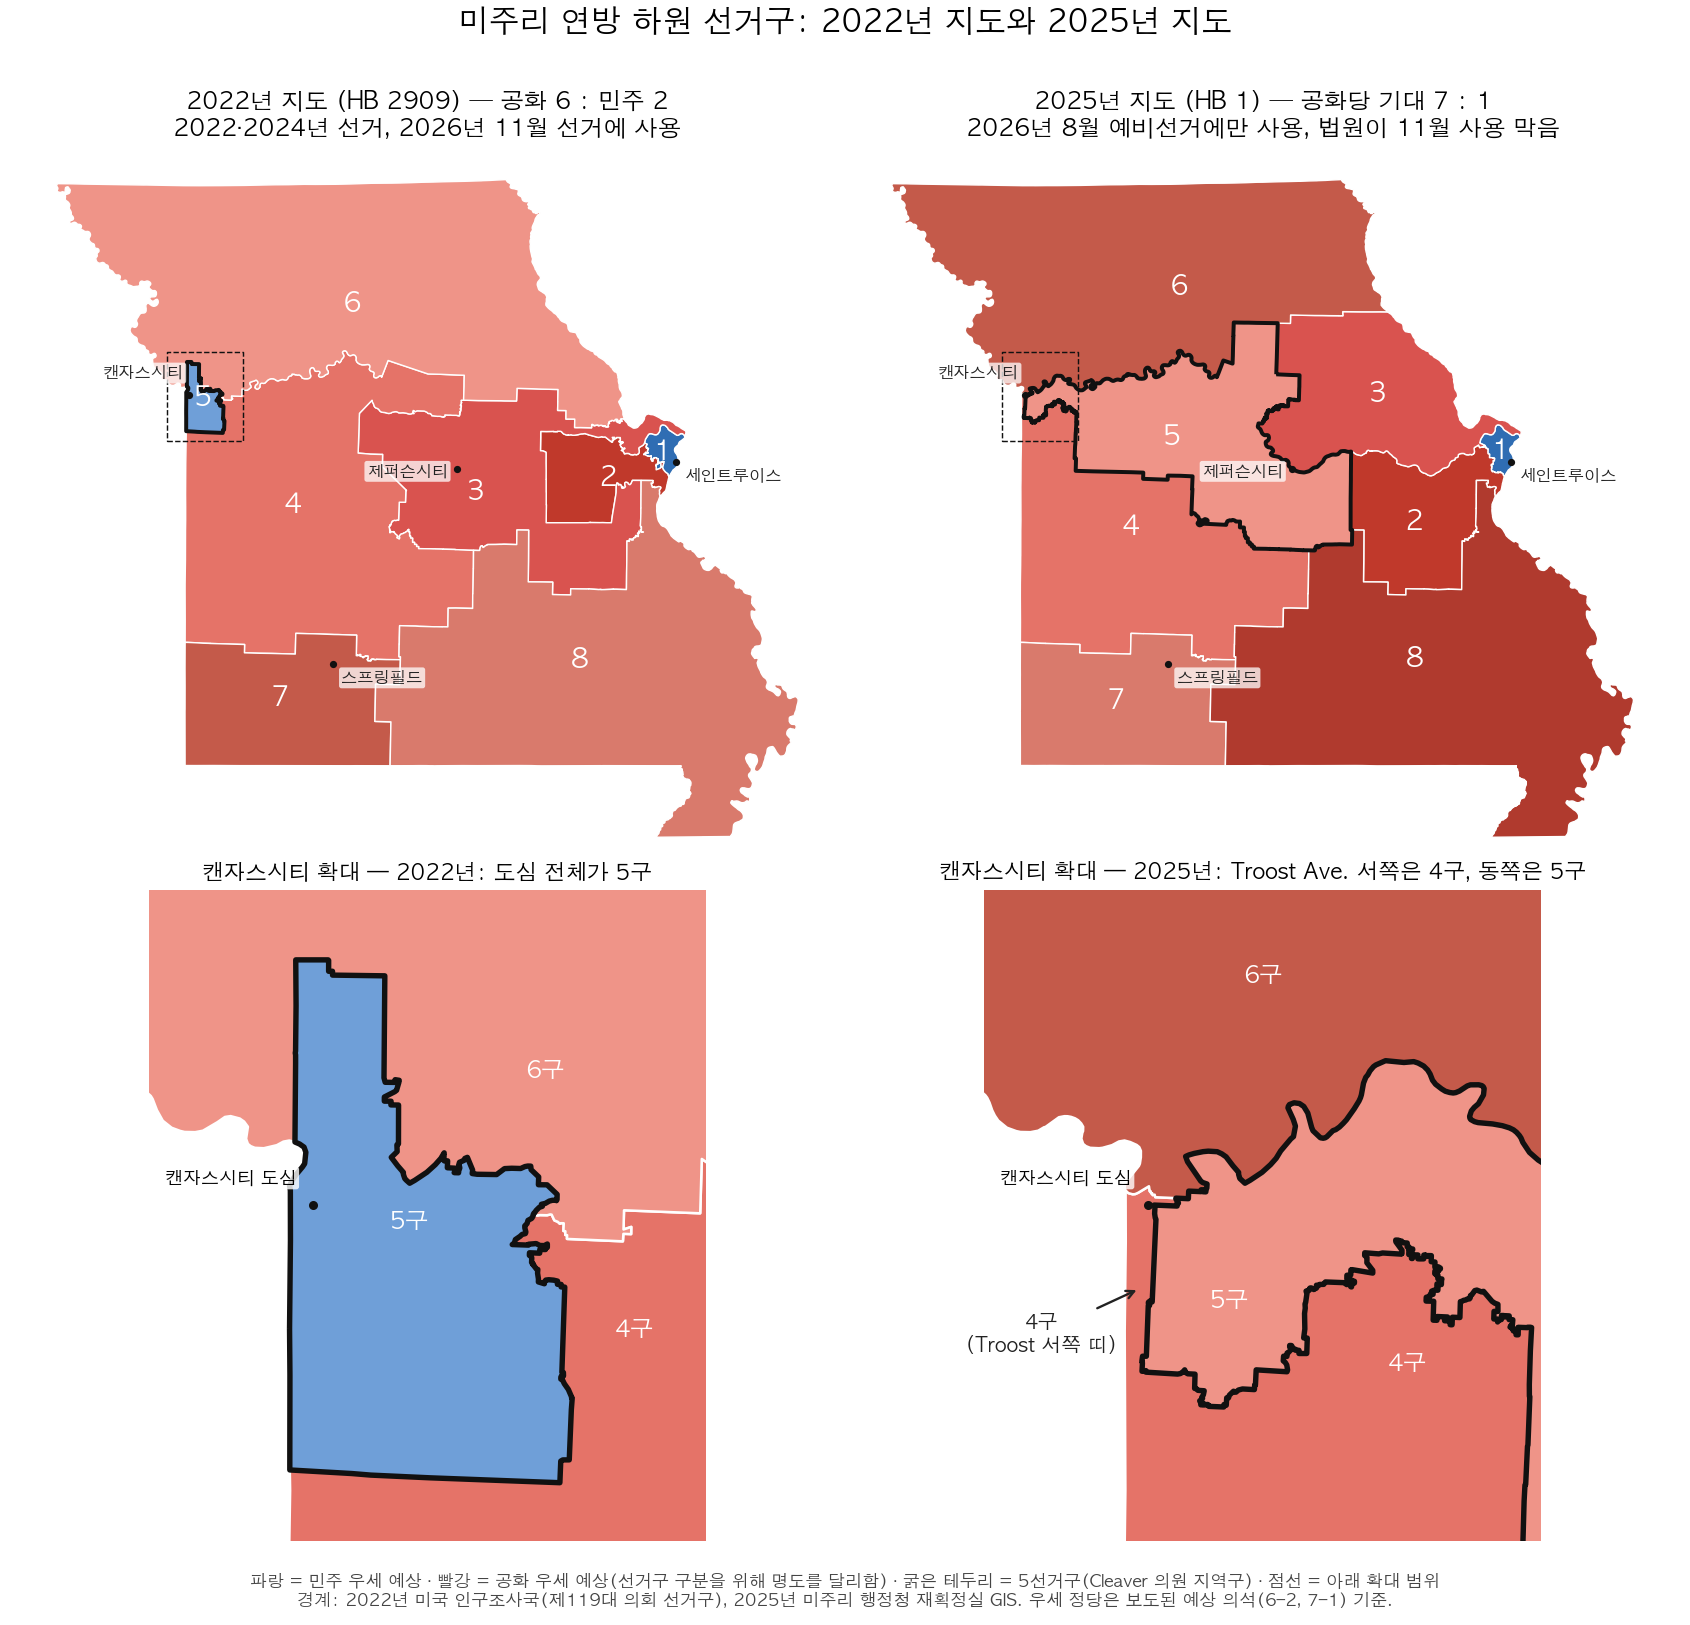
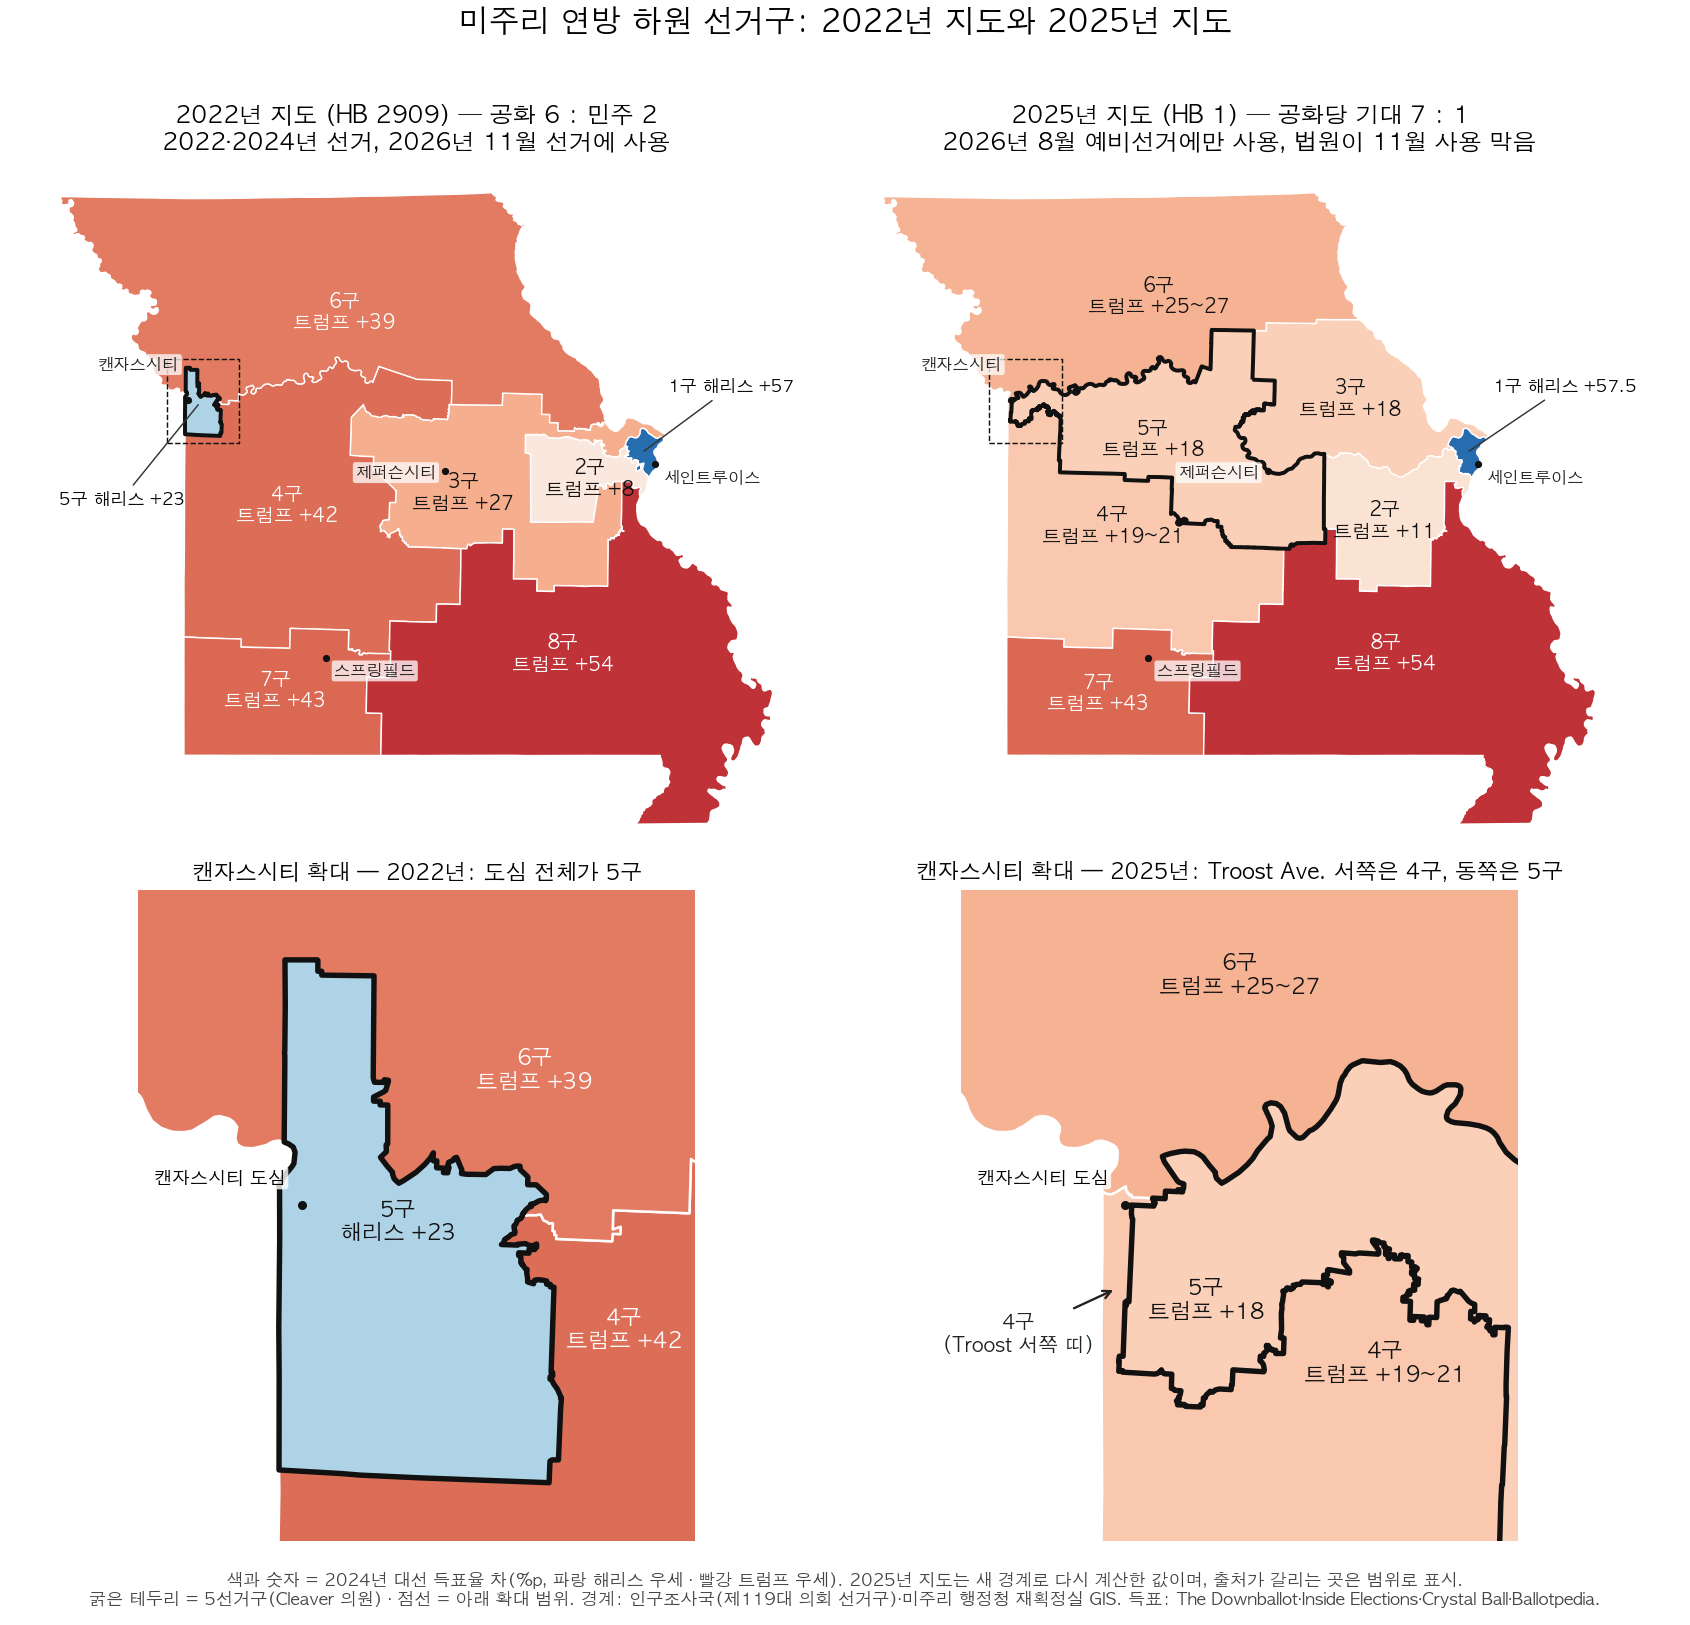
미주리 지도 그림: 2024 대선 득표차로 색·수치 표시 + 선거구별 비교표(현직·두 지도 득표차·11월 대진)

diff --git a/scripts/fig_missouri_maps.py b/scripts/fig_missouri_maps.py
@@ -16,23 +16,36 @@ plt.rcParams["font.family"] = "AppleGothic"
 plt.rcParams["axes.unicode_minus"] = False
 
 REPO = Path(__file__).resolve().parent.parent
-D_DISTRICTS = {"2022": {1, 5}, "2025": {1}}          # 예상 민주 우세 선거구
-BLUE = ["#2f6db3", "#6f9fd8"]
-REDS = ["#c0392b", "#d9534f", "#e57368", "#ef9488", "#c45a4a", "#d97a6c", "#b03a2e"]
+# 2024 대선 득표율 차(트럼프 − 해리스, %p). 2022년 지도 = 실제 결과, 2025년 지도 = 새 경계로 재집계.
+# 출처: The Downballot 선거구별 시트·Inside Elections·Crystal Ball·Ballotpedia(보관본). 출처가 갈리면 (하한, 상한).
+MARGIN = {
+    "2022": {1: -57, 2: 8, 3: 27, 4: 42, 5: -23, 6: 39, 7: 43, 8: 54},
+    "2025": {1: -57.5, 2: 11, 3: 18, 4: (19, 21), 5: 18, 6: (25, 27), 7: 43, 8: 54},
+}
+CMAP = matplotlib.colormaps["RdBu_r"]
 CITIES = {"캔자스시티": (-94.58, 39.10), "세인트루이스": (-90.20, 38.63), "제퍼슨시티": (-92.17, 38.58), "스프링필드": (-93.29, 37.21)}
-CITY_OFF = {"캔자스시티": (-0.05, 0.12, "right"), "세인트루이스": (0.08, -0.13, "left"), "제퍼슨시티": (-0.08, -0.05, "right"), "스프링필드": (0.08, -0.13, "left")}
+CITY_OFF = {"캔자스시티": (-0.08, 0.22, "right"), "세인트루이스": (0.08, -0.13, "left"), "제퍼슨시티": (-0.08, -0.05, "right"), "스프링필드": (0.08, -0.13, "left")}
 EXTRA_ZOOM_LABELS = {"2025": [(4, -94.59, 39.02)]}   # 2025년 4구는 Troost 서쪽의 폭 2km 띠(경도 -94.60~-94.58)와 남동쪽이 이어진 모양 → 서쪽 띠를 화살표로 표시
 KC_BOX = (-94.78, 38.78, -94.10, 39.40)              # 캔자스시티 확대 범위(경도·위도)
 
 
+def mid(v):
+    return sum(v) / 2 if isinstance(v, tuple) else v
+
+
 def colors(g, year):
-    out, bi, ri = [], 0, 0
-    for d in g.district:
-        if d in D_DISTRICTS[year]:
-            out.append(BLUE[bi % 2]); bi += 1
-        else:
-            out.append(REDS[ri % len(REDS)]); ri += 1
-    return out
+    # -60 ~ +60 을 색 척도 0.1 ~ 0.9 로(양 끝의 너무 짙은 색은 쓰지 않음)
+    return [CMAP(0.5 + max(-60, min(60, mid(MARGIN[year][d]))) / 150) for d in g.district]
+
+
+def mlabel(v):
+    if isinstance(v, tuple):
+        return f"트럼프 +{v[0]:g}~{v[1]:g}"
+    return f"트럼프 +{v:g}" if v > 0 else f"해리스 +{-v:g}"
+
+
+def tcolor(v):
+    return "white" if abs(mid(v)) >= 30 else "#111"
 
 
 def draw(ax, g, year, zoom=False):
@@ -46,7 +59,9 @@ def draw(ax, g, year, zoom=False):
             if r.geometry.is_empty or r.geometry.area < 0.004:
                 continue
             p = r.geometry.representative_point()
-            ax.text(p.x, p.y, f"{r.district}구", ha="center", va="center", fontsize=13, weight="bold", color="white")
+            v = MARGIN[year][r.district]
+            ax.text(p.x, p.y, f"{r.district}구\n{mlabel(v)}", ha="center", va="center", fontsize=12, weight="bold",
+                    color=tcolor(v), linespacing=1.15)
         for d, x, y in EXTRA_ZOOM_LABELS.get(year, []):
             ax.annotate(f"{d}구\n(Troost 서쪽 띠)", xy=(x, y), xytext=(x - 0.12, y - 0.06), fontsize=11, weight="bold",
                         ha="center", color="#222", arrowprops=dict(arrowstyle="->", color="#222", lw=1.3))
@@ -56,7 +71,17 @@ def draw(ax, g, year, zoom=False):
     else:
         for _, r in g.iterrows():
             p = r.geometry.representative_point()
-            ax.text(p.x, p.y, str(r.district), ha="center", va="center", fontsize=15, weight="bold", color="white")
+            v = MARGIN[year][r.district]
+            small = {1: (0.25, 0.45, "left")}            # 세인트루이스 1구는 좁아서 바깥에 표시
+            if year == "2022":
+                small[5] = (-0.15, -0.75, "right")      # 2022년 5구(캔자스시티)도 좁다
+            if r.district in small:
+                dx, dy, ha = small[r.district]
+                ax.annotate(f"{r.district}구 {mlabel(v)}", xy=(p.x, p.y), xytext=(p.x + dx, p.y + dy), fontsize=9.5, weight="bold",
+                            ha=ha, arrowprops=dict(arrowstyle="-", color="#333", lw=0.8))
+                continue
+            ax.text(p.x, p.y, f"{r.district}구\n{mlabel(v)}", ha="center", va="center", fontsize=10.5, weight="bold",
+                    color=tcolor(v), linespacing=1.15)
         for n, (x, y) in CITIES.items():
             dx, dy, ha = CITY_OFF[n]
             ax.plot(x, y, "o", color="#111", ms=3)
@@ -80,8 +105,8 @@ def main():
     axes[1, 1].set_title("캔자스시티 확대 — 2025년: Troost Ave. 서쪽은 4구, 동쪽은 5구", fontsize=12)
     fig.suptitle("미주리 연방 하원 선거구: 2022년 지도와 2025년 지도", fontsize=17, weight="bold", y=0.995)
     fig.text(0.5, 0.012,
-             "파랑 = 민주 우세 예상 · 빨강 = 공화 우세 예상(선거구 구분을 위해 명도를 달리함) · 굵은 테두리 = 5선거구(Cleaver 의원 지역구) · 점선 = 아래 확대 범위\n"
-             "경계: 2022년 미국 인구조사국(제119대 의회 선거구), 2025년 미주리 행정청 재획정실 GIS. 우세 정당은 보도된 예상 의석(6–2, 7–1) 기준.",
+             "색과 숫자 = 2024년 대선 득표율 차(%p, 파랑 해리스 우세 · 빨강 트럼프 우세). 2025년 지도는 새 경계로 다시 계산한 값이며, 출처가 갈리는 곳은 범위로 표시.\n"
+             "굵은 테두리 = 5선거구(Cleaver 의원) · 점선 = 아래 확대 범위. 경계: 인구조사국(제119대 의회 선거구)·미주리 행정청 재획정실 GIS. 득표: The Downballot·Inside Elections·Crystal Ball·Ballotpedia.",
              ha="center", fontsize=9.5, color="#444")
     fig.tight_layout(rect=(0, 0.04, 1, 0.97))
     out = REPO / "assets/figures/missouri_maps.png"
